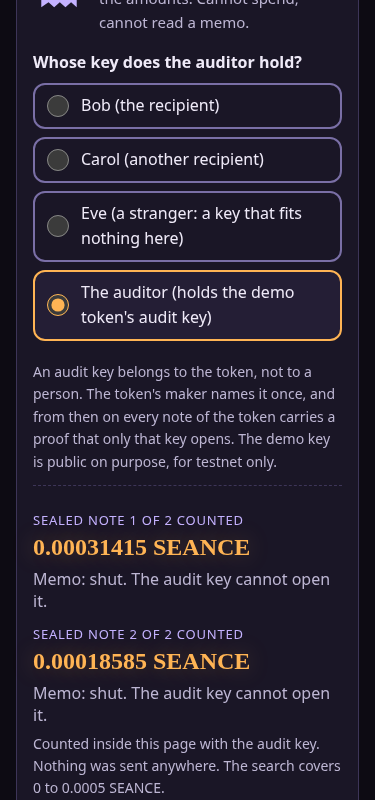
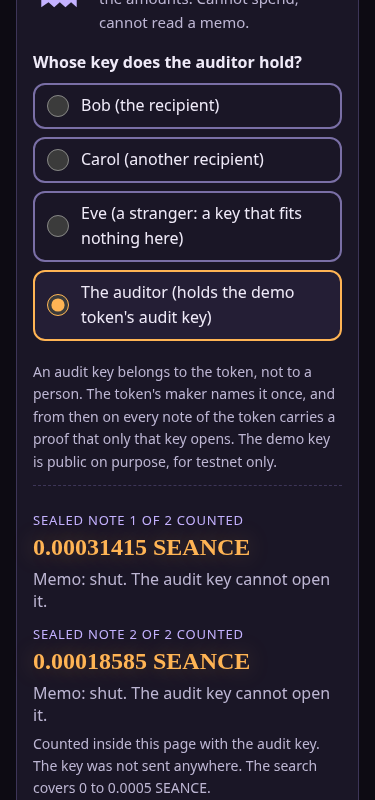
Evidence rerun on the final code: smoke PASS (917 checks), links FAIL (20)
The live chain held a stranger's private transfer this time, so the checks that need one ran and passed at both widths. The report is updated to match: gate numbers, the caption fix (20f8986), the claims check, and the NOT VERIFIED list.

Claude-Session: https://claude.ai/code/session_01GAS3TwEvq8rdhgJTGSQMuH

Changed region(s): [[0.088, 0.9375, 0.9093, 1.0]]

diff --git a/notes/SV2-1-report.md b/notes/SV2-1-report.md
@@ -23,7 +23,8 @@ Built and measured on 2026-10-29 (UTC). This folder is a new git repository: no 
 | base path | 0d4ed90 | `/seance-v2/` for vite, preview and the scripts | smoke runs under it |
 | 6 speed | 53da369, 1378123 | `scripts/perf.mjs`, `notes/perf.md` | section 3 |
 | docs | 2f8fac7, 77ec180, d7b62e3 | README "Private by design" near the top, `design.md`, `docs/checks.md`, `.github/workflows/pages.yml`; dated note about the second indexer | `test/readme.test.ts` |
-| evidence | 5da6f24, 73f97f9, and the last commit (this report) | `evidence/` (smoke.txt, links.txt, screenshots) | |
+| copy fix | 20f8986 | the captions under the Medium and the Auditor say "The key was not sent anywhere." (v1 said "Nothing was sent anywhere.") | smoke |
+| evidence | 5da6f24, 73f97f9, and the last commit (evidence rerun on the final code, and this report) | `evidence/` (smoke.txt, links.txt, screenshots) | |
 
 Tests went from 187 (10 files) in v1 to 236 (11 files).
 
@@ -32,25 +33,26 @@ Choices to know:
 - The latest 40 cover only about 4 minutes of traffic, so most older ids reach the "Ask for it anyway" line. The list is kept 60 s in the page, and the indexer's copy may be 30 s old, so a very fresh id can miss too.
 - A file answer gets the explorer proof link, clears the `#tx=` hash, and says the page cannot tell whether the file is a genuine answer.
 - The log lists "the requests this page has made so far", never "every request". Chromium also reports the browser's own refresh of the saved list, and the log shows it as an extra row without sizes; other browsers: NOT VERIFIED.
-- Late copy fixes (d7b62e3), from my own review: the list row said "Only your IP address and the time", which left out the headers the browser adds, so it now says "Your IP address, the time and the headers your browser adds. No transaction id."; the hint under the id box now says a demo you pick or paste is asked for by id.
+- Late copy fixes, from my own review (d7b62e3, 20f8986): the list row said "Only your IP address and the time", which left out the headers the browser adds, so it now says "Your IP address, the time and the headers your browser adds. No transaction id."; the hint under the id box now says a demo you pick or paste is asked for by id; the captions under the Medium and the Auditor (v1 copy) said "Nothing was sent anywhere.", which beside the log can be read as a claim of zero requests, so they now say "The key was not sent anywhere."
+- A judge model read the page and README text against the list of claims the page must not make (17 items, asked as 15 questions): every claim question came back at 0.034 or lower (not made), except that the old "Nothing was sent anywhere." caption was read as a zero-requests claim at 0.935, which is why it changed. A hint from a model, not a proof.
 
 ## 2. Gates (2026-10-29, real numbers)
 
 | Gate | Result |
 |---|---|
-| `npm ci` | exit 0, added 72 packages in 986 ms, 0 vulnerabilities |
+| `npm ci` | exit 0, added 72 packages in 1 s, 0 vulnerabilities |
 | `npm run typecheck` | exit 0 |
 | `npm test` | 11 files, 236 tests passed |
-| `npm run build` | exit 0; JS 1,891.92 kB (717.80 kB gzip), CSS 12.64 kB (3.65 kB), index.html 14.00 kB (4.20 kB) |
-| `npm run smoke` | PASS: 905 checks ok, 0 FAIL, 232 s, headless Chromium 154 (full run, 19:10 to 19:14 UTC, `evidence/smoke.txt`); a second run of the live scenarios alone also passed (291 ok, 0 FAIL) |
-| `npm run links` | **FAIL (20)**, exit 1, 21 s; see below |
+| `npm run build` | exit 0; JS 1,891.93 kB (717.80 kB gzip), CSS 12.64 kB (3.65 kB), index.html 14.00 kB (4.20 kB) |
+| `npm run smoke` | PASS: 917 checks ok, 0 FAIL, 231 s, headless Chromium 154 (full run on the final code, 19:28 to 19:32 UTC, `evidence/smoke.txt`) |
+| `npm run links` | **FAIL (20)**, exit 1, 20 s, 10 checks ok (19:33 UTC); see below |
 | `npm run scan` | PASS, 31 checks, plain run (the denylist check prints SKIPPED: no file given) |
 | `npm run scan` with `DENYLIST=<tools/privacy-denylist.txt>` | PASS, 31 checks, 0 denylist matches in history, tree, dist and dist wasm |
 | the brief's privacy grep over `git log -p --all` (an absolute home-directory prefix, a gmail address) | 0 matches; the same grep over the tree, tracked and untracked files, finds 0 as well |
 
 **Links gate.** 20 of 20 transaction checks fail with the same cause: the first indexer answers 404 (as the README has said since 2026-10-24, and the gate does not judge that) and the second indexer now answers 404 as well, so there is no live answer to compare the saved copies with. Everything else in the gate passes: the negative control, the demo token's template and token records on both indexers (view key equals the audit key), the explorer's page for the token, and the four repository and footer links. A direct probe the same day: both indexers answer 200 at `/transaction-receipts/<id>` for all 20 ids, and the second indexer's newest transaction is now from 2026-10-28 02:19 UTC (it was 2026-10-21 on 2026-10-24). `scripts/links.mjs` is byte-for-byte the v1 script, so the same 404s would fail it on the v1 tree (not run there: v1 is frozen). Left alone on purpose, because turning it green means choosing what replaces the dead mirror link. The page still offers "Raw answer from a second public indexer" beside a saved copy, and it now opens a 404. Decision for the owner: repoint that link (for example at the first indexer's receipt, which answers) and the gate's comparison, or wait for the mirror. The README carries a dated note about this.
 
-**Smoke.** The full run walks the page at 1280 px and 375 px, live and recorded, offline for the file, and checks the ghost log row by row against the browser's own protocol. In both runs the live chain was quiet, so Summon fell back to the recorded sample and the checks that need a stranger's live transaction (Summon makes one list request and none by id; an id from the list is read from the list) were skipped by design. They ran and passed earlier the same day, in a full run (916 ok, 1 FAIL, a counting error in the test about the browser's own refresh of the list, fixed in the test: it now compares the rows with the protocol exactly) and in a live-only run (302 ok, 0 FAIL), both before the two late wording fixes.
+**Smoke.** The full run walks the page at 1280 px and 375 px, live and recorded, offline for the file, and checks the ghost log row by row against the browser's own protocol. At 19:28 UTC the live chain held a stranger's private transfer, so the checks that need one ran and passed on the final code, at both widths: Summon made one request, for the list, and none for an id; pasting that id found it in the list with no request at all. An earlier full run (19:10 UTC, 905 ok, 0 FAIL, code through d7b62e3) met a quiet chain, so Summon fell back to the recorded sample and those checks were skipped by design; a full run before it had 1 FAIL, a counting error in the test about the browser's own refresh of the list, fixed in the test (it now compares the rows with the protocol exactly).
 
 **Scan.** The "throwaway secrets" check prints SKIPPED: it needs secret folders next to the checkout, and my rules forbid opening them. The generic checks (private key blocks, JWT-style tokens, spend or private secrets assigned a 64-hex value, mnemonic fields, home paths, the account name) pass in history, tree, dist and the wasm. Only the project identity authored the commits.
 
@@ -92,7 +94,7 @@ The limit (more than 400 ms slower at the median: report it, keep the step) is n
 - Row sizes are decoded bodies, not wire bytes, and a row answered from the browser's cache looks like a fresh one.
 - The throwaway-secret scan (SKIPPED, section 2).
 - Comparing the saved copies with a live raw answer: impossible today (section 2). `npm run links` on the v1 tree was not run (v1 is frozen); that it fails the same way is inferred from the identical script.
-- The checks that need a stranger's live transaction did not run in the final runs (quiet chain, section 2); they last ran before the two late wording fixes (d7b62e3).
+- The quiet-chain path (Summon falls back to the recorded sample) last ran in the 19:10 full run (905 ok), before the caption fix (20f8986); the final run (19:28) met a stranger's live transfer.
 - The CSP in browsers other than Chromium; the effect of the policy on a click (it has none) is documented, not tested.
 
 ## 6. After the v2 repository exists
